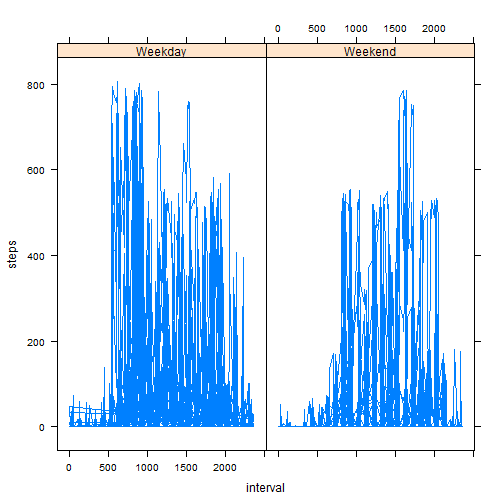
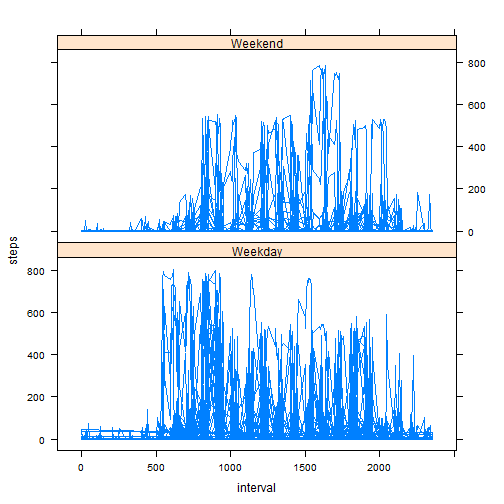
Fixed chart for weeday and weekend

diff --git a/PA1_template.html b/PA1_template.html
@@ -404,10 +404,10 @@ hr {
 
         library(lattice)
 
-        xyplot(steps~interval|days, data,type = &quot;l&quot;)
+        xyplot(steps~interval|days, data,type = &quot;l&quot;, layout=c(1,2))
 </code></pre>
 
[2 lines of base64/hex data omitted]
 
 </body>
 

diff --git a/PA1_template.md b/PA1_template.md
@@ -232,7 +232,7 @@ Frequency of Total number of steps was highest was increased after setting missi
         
         library(lattice)
 
-        xyplot(steps~interval|days, data,type = "l")
+        xyplot(steps~interval|days, data,type = "l", layout=c(1,2))
 ```
 
 ![plot of chunk unnamed-chunk-5](figure/unnamed-chunk-5.png) 
